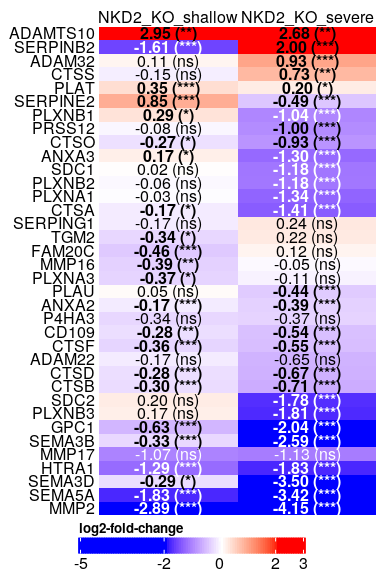
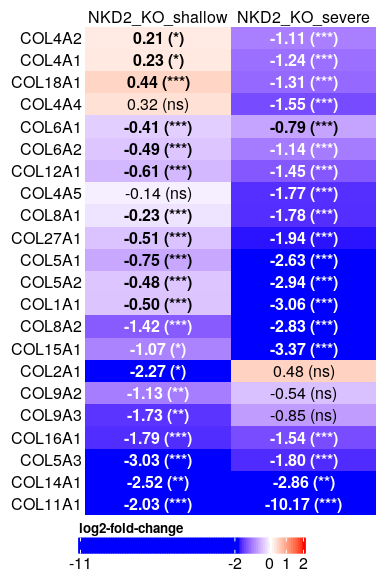
Fix bug on collagen genes via idx

diff --git a/Invitro_MF_Nkd2/01_DGE.md b/Invitro_MF_Nkd2/01_DGE.md
@@ -53,14 +53,171 @@ Essential R libraries for the analysis.
 library(limma)
 library(edgeR)
 library(dplyr)
+```
+
+    ## 
+    ## Attaching package: 'dplyr'
+
+    ## The following objects are masked from 'package:stats':
+    ## 
+    ##     filter, lag
+
+    ## The following objects are masked from 'package:base':
+    ## 
+    ##     intersect, setdiff, setequal, union
+
+``` r
 library(ggplot2)
 library(ggrepel)
 library(cowplot)
+```
+
+    ## 
+    ## ********************************************************
+
+    ## Note: As of version 1.0.0, cowplot does not change the
+
+    ##   default ggplot2 theme anymore. To recover the previous
+
+    ##   behavior, execute:
+    ##   theme_set(theme_cowplot())
+
+    ## ********************************************************
+
+``` r
 library(GSEABase)
+```
+
+    ## Loading required package: BiocGenerics
+
+    ## Loading required package: parallel
+
+    ## 
+    ## Attaching package: 'BiocGenerics'
+
+    ## The following objects are masked from 'package:parallel':
+    ## 
+    ##     clusterApply, clusterApplyLB, clusterCall, clusterEvalQ,
+    ##     clusterExport, clusterMap, parApply, parCapply, parLapply,
+    ##     parLapplyLB, parRapply, parSapply, parSapplyLB
+
+    ## The following objects are masked from 'package:dplyr':
+    ## 
+    ##     combine, intersect, setdiff, union
+
+    ## The following object is masked from 'package:limma':
+    ## 
+    ##     plotMA
+
+    ## The following objects are masked from 'package:stats':
+    ## 
+    ##     IQR, mad, sd, var, xtabs
+
+    ## The following objects are masked from 'package:base':
+    ## 
+    ##     anyDuplicated, append, as.data.frame, basename, cbind, colnames,
+    ##     dirname, do.call, duplicated, eval, evalq, Filter, Find, get, grep,
+    ##     grepl, intersect, is.unsorted, lapply, Map, mapply, match, mget,
+    ##     order, paste, pmax, pmax.int, pmin, pmin.int, Position, rank,
+    ##     rbind, Reduce, rownames, sapply, setdiff, sort, table, tapply,
+    ##     union, unique, unsplit, which, which.max, which.min
+
+    ## Loading required package: Biobase
+
+    ## Welcome to Bioconductor
+    ## 
+    ##     Vignettes contain introductory material; view with
+    ##     'browseVignettes()'. To cite Bioconductor, see
+    ##     'citation("Biobase")', and for packages 'citation("pkgname")'.
+
+    ## Loading required package: annotate
+
+    ## Loading required package: AnnotationDbi
+
+    ## Loading required package: stats4
+
+    ## Loading required package: IRanges
+
+    ## Loading required package: S4Vectors
+
+    ## 
+    ## Attaching package: 'S4Vectors'
+
+    ## The following objects are masked from 'package:dplyr':
+    ## 
+    ##     first, rename
+
+    ## The following object is masked from 'package:base':
+    ## 
+    ##     expand.grid
+
+    ## 
+    ## Attaching package: 'IRanges'
+
+    ## The following objects are masked from 'package:dplyr':
+    ## 
+    ##     collapse, desc, slice
+
+    ## 
+    ## Attaching package: 'AnnotationDbi'
+
+    ## The following object is masked from 'package:dplyr':
+    ## 
+    ##     select
+
+    ## Loading required package: XML
+
+    ## Loading required package: graph
+
+    ## 
+    ## Attaching package: 'graph'
+
+    ## The following object is masked from 'package:XML':
+    ## 
+    ##     addNode
+
+``` r
 library(fgsea)
 library(reshape2)
 library(gridExtra)
+```
+
+    ## 
+    ## Attaching package: 'gridExtra'
+
+    ## The following object is masked from 'package:Biobase':
+    ## 
+    ##     combine
+
+    ## The following object is masked from 'package:BiocGenerics':
+    ## 
+    ##     combine
+
+    ## The following object is masked from 'package:dplyr':
+    ## 
+    ##     combine
+
+``` r
 library(ComplexHeatmap)
+```
+
+    ## Loading required package: grid
+
+    ## ========================================
+    ## ComplexHeatmap version 2.4.2
+    ## Bioconductor page: http://bioconductor.org/packages/ComplexHeatmap/
+    ## Github page: https://github.com/jokergoo/ComplexHeatmap
+    ## Documentation: http://jokergoo.github.io/ComplexHeatmap-reference
+    ## 
+    ## If you use it in published research, please cite:
+    ## Gu, Z. Complex heatmaps reveal patterns and correlations in multidimensional 
+    ##   genomic data. Bioinformatics 2016.
+    ## 
+    ## This message can be suppressed by:
+    ##   suppressPackageStartupMessages(library(ComplexHeatmap))
+    ## ========================================
+
+``` r
 library(grid)
 fontTXT <- "sans"
 ```
@@ -773,10 +930,10 @@ draw(hp, heatmap_legend_side="bottom")
 ![](./01_DGE_output//figures/hp_GSEA_Matrisome-1.png)<!-- -->
 
 ``` r
-set1 <- unlist(ECM.res[[cnt]][which(ECM.res[["NKD2_KO_severe"]]$pathway=="Collagens"), 
-           "leadingEdge"])
-set2 <- unlist(ECM.res[[cnt]][which(ECM.res[["NKD2_KO_shallow"]]$pathway=="Collagens"), 
-           "leadingEdge"])
+set1 <- ECM.res$NKD2_KO_severe %>% filter(pathway=="Collagens") %>% 
+    .$leadingEdge %>% unlist()
+set2 <- ECM.res$NKD2_KO_shallow %>% filter(pathway=="Collagens") %>% 
+    .$leadingEdge %>% unlist()
 
 genes <- unique(sort(c(set1, set2)))
 
